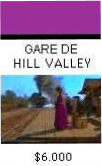
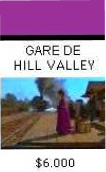
wip gameboard css

diff --git a/public/style.css b/public/style.css
@@ -1,21 +1,21 @@
 .board-top {
   display: grid;
-  grid-template-columns: repeat(13, 4vw);
-  grid-template-rows: repeat(2, 4vw);
+  grid-template-columns: repeat(13, 3.2vw);
+  grid-template-rows: repeat(2, 3.2vw);
   justify-content: center;
   align-content: center;
 }
 .board-left {
   display: grid;
-  grid-template-columns: repeat(13, 4vw);
-  grid-template-rows: repeat(9, 4vw);
+  grid-template-columns: repeat(13, 3.2vw);
+  grid-template-rows: repeat(9, 3.2vw);
   justify-content: center;
   align-content: center;
 }
 .board-bottom {
   display: grid;
-  grid-template-columns: repeat(13, 4vw);
-  grid-template-rows: repeat(2, 4vw);
+  grid-template-columns: repeat(13, 3.2vw);
+  grid-template-rows: repeat(2, 3.2vw);
   justify-content: center;
   align-content: center;
 }
@@ -25,7 +25,7 @@
   display: flex;
   height: 650px;
   background: url(./images/plateau.png) 0 0 no-repeat;
-  background-size: cover;
+  background-size: contain;
   justify-content: center;
   align-content: center;
 } */
@@ -91,41 +91,68 @@
 .board-left .square:nth-child(1) {
   grid-row: 1/2;
   grid-column: 1/3;
+  background: url(./images/manoirBrown.png) 0 0 no-repeat;
+  background-size: cover;
+  background-position: center;
 }
 
 .board-left .square:nth-child(2) {
   grid-row: 2/2;
   grid-column: 1/3;
+  background: url(./images/louCafe.png) 0 0 no-repeat;
+  background-size: cover;
+  background-position: center;
 }
 .board-left .square:nth-child(3) {
   grid-row: 3/4;
   grid-column: 1/3;
+  background: url(./images/caisseCommunauteLeft.png) 0 0 no-repeat;
+  background-size: cover;
+  background-position: center;
 }
 
 .board-left .square:nth-child(4) {
   grid-row: 4/4;
   grid-column: 1/3;
+  background: url(./images/twinPinesRanch.png) 0 0 no-repeat;
+  background-size: cover;
+  background-position: center;
 }
 
 .board-left .square:nth-child(5) {
   grid-row: 5/5;
   grid-column: 1/3;
+  background: url(./images/palaisJustice1955.png) 0 0 no-repeat;
+  background-size: cover;
+  background-position: center;
 }
 .board-left .square:nth-child(6) {
   grid-row: 6/6;
   grid-column: 1/3;
+  background: url(./images/cinema.png) 0 0 no-repeat;
+  background-size: cover;
+  background-position: center;
 }
 .board-left .square:nth-child(7) {
   grid-row: 7/7;
   grid-column: 1/3;
+  background: url(./images/plutonium.png) 0 0 no-repeat;
+  background-size: cover;
+  background-position: center;
 }
 .board-left .square:nth-child(8) {
   grid-row: 8/8;
   grid-column: 1/3;
+  background: url(./images/texaco.png) 0 0 no-repeat;
+  background-size: cover;
+  background-position: center;
 }
 .board-left .square:nth-child(9) {
   grid-row: 9/9;
   grid-column: 1/3;
+  background: url(./images/roysRecords.png) 0 0 no-repeat;
+  background-size: cover;
+  background-position: center;
 }
 
 .board-left .square:nth-child(10) {
@@ -171,55 +198,83 @@
   grid-column: 3/12;
   background: url(./images/back-to-the-future.jpg) 0 0 no-repeat;
   background-size: cover;
+  background-position: center;
 }
 
 .board-bottom .square:nth-child(1) {
   grid-row: 1/3;
   grid-column: 1/3;
+  background: url(./images/simpleVisite.png) 0 0 no-repeat;
+  background-size: cover;
+  background-position: center;
 }
 .board-bottom .square:nth-child(2) {
   grid-row: 3/1;
   grid-column: 3/3;
+  background: url(./images/palaceSaloon.png) 0 0 no-repeat;
+  background-size: cover;
+  background-position: center;
 }
 .board-bottom .square:nth-child(3) {
   grid-row: 4/1;
   grid-column: 4/4;
+  background: url(./images/marechalFerrant.png) 0 0 no-repeat;
+  background-size: cover;
+  background-position: center;
 }
 .board-bottom .square:nth-child(4) {
   grid-row: 5/1;
   grid-column: 5/5;
+  background: url(./images/chance.png) 0 0 no-repeat;
+  background-size: cover;
+  background-position: center;
 }
 .board-bottom .square:nth-child(5) {
   grid-row: 6/1;
   grid-column: 6/6;
+  background: url(./images/bureauMarshal.png) 0 0 no-repeat;
+  background-size: cover;
+  background-position: center;
 }
 .board-bottom .square:nth-child(6) {
   grid-row: 7/1;
   grid-column: 7/7;
+  background: url(./images/justice1885.png) 0 0 no-repeat;
+  background-size: cover;
+  background-position: center;
 }
 .board-bottom .square:nth-child(7) {
   grid-row: 8/1;
   grid-column: 8/8;
+  background: url(./images/donHorloge.png) 0 0 no-repeat;
+  background-size: cover;
+  background-position: center;
 }
 .board-bottom .square:nth-child(8) {
   grid-row: 9/1;
   grid-column: 9/9;
+  background: url(./images/wellsFargo.png) 0 0 no-repeat;
+  background-size: cover;
+  background-position: center;
 }
 .board-bottom .square:nth-child(9) {
   grid-row: 10/1;
   grid-column: 10/10;
   background: url(./images/caisseCommunaute.png) 0 0 no-repeat;
   background-size: cover;
+  background-position: center;
 }
 .board-bottom .square:nth-child(10) {
   grid-row: 11/1;
   grid-column: 11/11;
   background: url(./images/hillvalleyGare.png) 0 0 no-repeat;
   background-size: cover;
+  background-position: center;
 }
 .board-bottom .square:nth-child(11) {
   grid-row: 1/3;
   grid-column: 12/14;
   background: url(./images/caseDepart.png) 0 0 no-repeat;
   background-size: cover;
+  background-position: center;
 }
